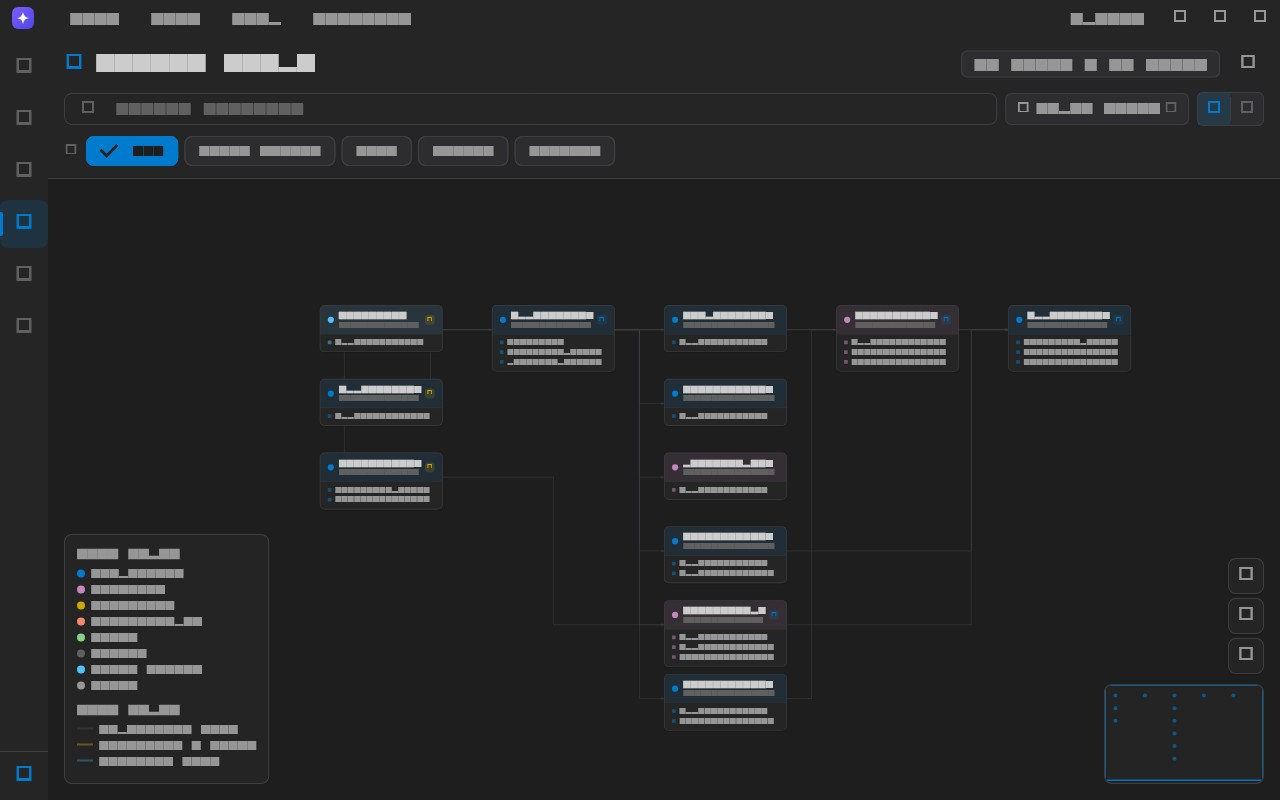
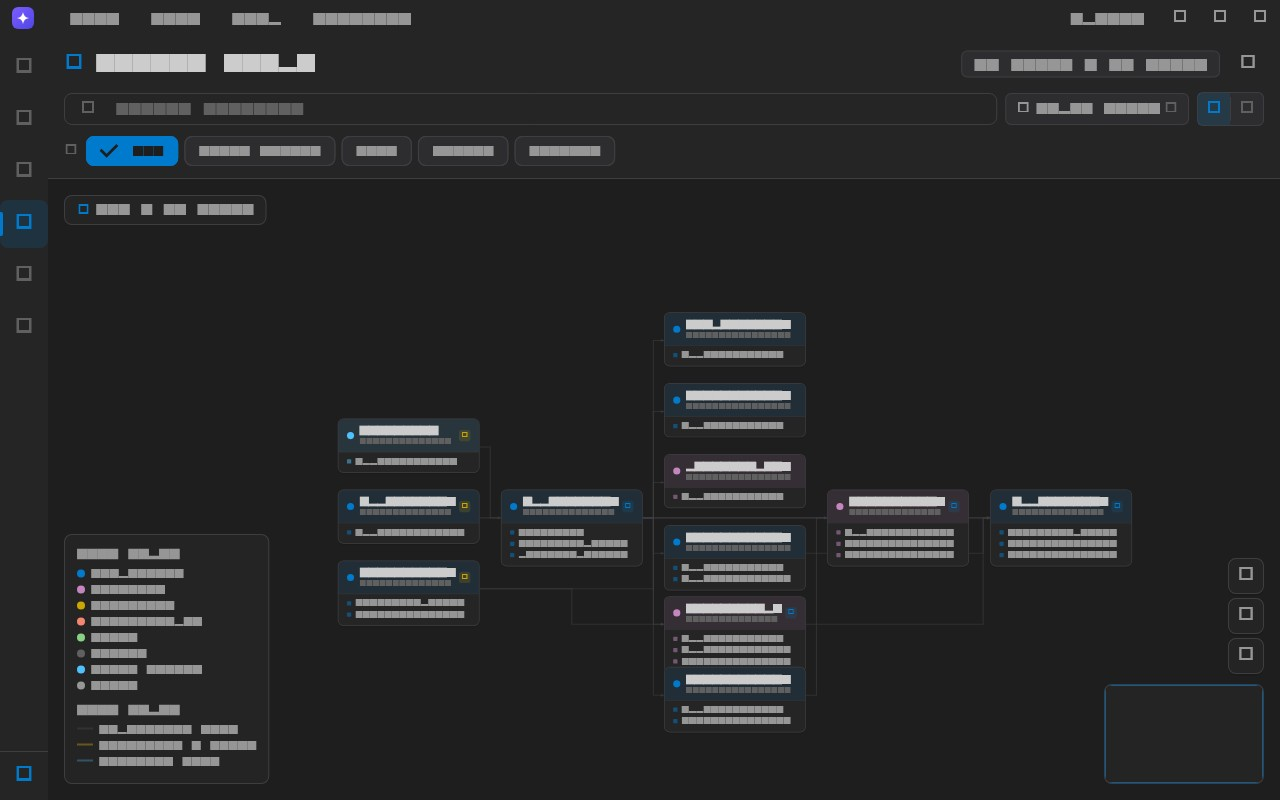
feat: adaptive viewport layout + readable 60% start zoom
- Layout now fills the viewport: gaps scale to spread nodes across the
  screen when the graph is small; only overflow outward when a codebase
  is genuinely too big
- Both layered and module-band layouts are viewport-aware
- Initial fit floors at 60% zoom (readable start); Fit-to-View button
  still shows everything
- Facet summary overlay: shows which slice is active (Entry/Hubs/Cycles/
  Modules) with live file count

diff --git a/mobile/lib/features/graph/presentation/screens/graph_screen.dart b/mobile/lib/features/graph/presentation/screens/graph_screen.dart
@@ -55,6 +55,7 @@ class _GraphScreenState extends ConsumerState<GraphScreen> {
   bool _initialFitDone = false;
   bool _isGridView = false;
   bool _isPanning = false;
+  Map<String, Rect> _moduleBands = {};
 
   @override
   void dispose() {
@@ -292,16 +293,8 @@ class _GraphScreenState extends ConsumerState<GraphScreen> {
                     final visibleEdges = edges.where((e) =>
                         visiblePaths.contains(e['from']) && visiblePaths.contains(e['to'])).toList();
 
-                    // Initialize positions: module bands when in Modules facet, else layered
-                    if (_nodePositions.isEmpty) {
-                      if (_facet == GraphFacet.modules) {
-                        _initializeModulePositions(visibleFiles, projectPath);
-                      } else {
-                        _initializePositions(visibleFiles, visibleEdges);
-                      }
-                    }
-
-                    // Calculate canvas size
+                    // Calculate canvas size (positions are initialized inside
+                    // the LayoutBuilder where the viewport is known)
                     double maxX = 0, maxY = 0;
                     for (final pos in _nodePositions.values) {
                       if (pos.dx > maxX) maxX = pos.dx;
@@ -309,14 +302,6 @@ class _GraphScreenState extends ConsumerState<GraphScreen> {
                     }
                     final canvasWidth = maxX + 300;
                     final canvasHeight = maxY + 200;
-
-                    // Auto-fit on first load
-                    if (!_initialFitDone && _nodePositions.isNotEmpty) {
-                      WidgetsBinding.instance.addPostFrameCallback((_) {
-                        _fitToView();
-                        _initialFitDone = true;
-                      });
-                    }
 
                     // Grid view
                     if (_isGridView) {
@@ -337,6 +322,22 @@ class _GraphScreenState extends ConsumerState<GraphScreen> {
                     return LayoutBuilder(
                       builder: (context, constraints) {
                         final viewportSize = Size(constraints.maxWidth, constraints.maxHeight);
+                        // Initialize positions with the real viewport so the
+                        // layout fills the screen (or overflows only if huge)
+                        if (_nodePositions.isEmpty) {
+                          if (_facet == GraphFacet.modules) {
+                            _initializeModulePositions(visibleFiles, projectPath, viewportSize);
+                          } else {
+                            _initializePositions(visibleFiles, visibleEdges, viewportSize);
+                          }
+                          // Start readable at >=60% zoom
+                          WidgetsBinding.instance.addPostFrameCallback((_) {
+                            if (mounted && !_initialFitDone) {
+                              _fitToView(initial: true);
+                              _initialFitDone = true;
+                            }
+                          });
+                        }
                         return Stack(
                       children: [
                         // Graph canvas — InteractiveViewer handles pan/zoom on background
@@ -369,7 +370,7 @@ class _GraphScreenState extends ConsumerState<GraphScreen> {
                                   Positioned.fill(
                                     child: CustomPaint(
                                       painter: _ModuleBandPainter(
-                                        bands: _moduleBands(visibleFiles, projectPath),
+                                        bands: _moduleBands,
                                       ),
                                     ),
                                   ),
@@ -490,6 +491,33 @@ class _GraphScreenState extends ConsumerState<GraphScreen> {
                             visibleFiles: visibleFiles,
                             controller: _transformController,
                             viewportSize: viewportSize,
+                          ),
+                        ),
+                        // Facet summary (top-left, shows what this slice contains)
+                        Positioned(
+                          left: 16,
+                          top: 16,
+                          child: Container(
+                            padding: const EdgeInsets.symmetric(horizontal: 12, vertical: 6),
+                            decoration: BoxDecoration(
+                              color: AppColors.surface.withValues(alpha: 0.9),
+                              borderRadius: BorderRadius.circular(8),
+                              border: Border.all(color: AppColors.border),
+                            ),
+                            child: Row(
+                              mainAxisSize: MainAxisSize.min,
+                              children: [
+                                Icon(Icons.layers_rounded, size: 13, color: AppColors.primary),
+                                const SizedBox(width: 6),
+                                Text(
+                                  '${_facetLabel(_facet)} — ${visibleFiles.length} files'
+                                  '${_facet == GraphFacet.entryPoints ? " (roots)" : ""}'
+                                  '${_facet == GraphFacet.hubs ? " (most connected)" : ""}'
+                                  '${_facet == GraphFacet.cycles ? " (tightly coupled)" : ""}',
+                                  style: const TextStyle(color: AppColors.textSecondary, fontSize: 11),
+                                ),
+                              ],
+                            ),
                           ),
                         ),
                         // Legend (bottom-left corner)
@@ -725,12 +753,10 @@ class _GraphScreenState extends ConsumerState<GraphScreen> {
     return badges;
   }
 
-  void _initializePositions(List<IndexedFile> files, List<Map<String, dynamic>> edges) {
+  void _initializePositions(List<IndexedFile> files, List<Map<String, dynamic>> edges, Size viewport) {
     // Layered (Sugiyama-style) layout — cards aligned in columns like Supabase
     const nodeWidth = 200.0;
     const nodeHeight = 80.0;
-    const gapX = 80.0;
-    const gapY = 40.0;
 
     // Build dependency adjacency: node -> set of nodes it depends on
     final byPath = {for (final f in files) f.path: f};
@@ -805,13 +831,38 @@ class _GraphScreenState extends ConsumerState<GraphScreen> {
       });
     }
 
-    // Assign grid positions: x = column per layer, y = stacked rows
+    // Assign grid positions: x = column per layer, y = stacked rows.
+    // Adaptive: fill the viewport when possible, overflow only when too big.
     final positions = <String, Offset>{};
+    final maxLayerCount = layers.length;
+    final maxNodesInLayer = layers.values.fold(0, (m, l) => l.length > m ? l.length : m);
+
+    var gapX = 80.0;
+    var gapY = 40.0;
+    if (maxLayerCount > 0 && maxNodesInLayer > 0) {
+      const pad = 80.0;
+      final usableW = viewport.width - pad * 2;
+      final usableH = viewport.height - pad * 2;
+      final targetGapX = (usableW - maxLayerCount * nodeWidth) / math.max(1, maxLayerCount - 1);
+      final targetGapY = (usableH - maxNodesInLayer * nodeHeight) / math.max(1, maxNodesInLayer - 1);
+      // Spread to fill when the graph is small; clamp to readable minimums
+      // when it is too big (then it overflows the viewport naturally).
+      gapX = targetGapX.clamp(30.0, 140.0);
+      gapY = targetGapY.clamp(20.0, 60.0);
+    }
+
+    final totalW = maxLayerCount * nodeWidth + (maxLayerCount - 1) * gapX;
+    final tallestH = maxNodesInLayer * nodeHeight + (maxNodesInLayer - 1) * gapY;
+    final startX = math.max(80.0, (viewport.width - totalW) / 2);
+    final startY = math.max(80.0, (viewport.height - tallestH) / 2);
+
     for (final entry in layers.entries) {
       final l = entry.key;
       final nodes = entry.value;
-      final x = 100.0 + l * (nodeWidth + gapX);
-      var y = 100.0;
+      final x = startX + l * (nodeWidth + gapX);
+      // Vertically center each layer's stack so columns are balanced
+      final layerH = nodes.length * nodeHeight + (nodes.length - 1) * gapY;
+      var y = startY + (tallestH - layerH) / 2;
       for (final node in nodes) {
         positions[node] = Offset(x, y);
         y += nodeHeight + gapY;
@@ -822,12 +873,13 @@ class _GraphScreenState extends ConsumerState<GraphScreen> {
   }
 
   /// Module-band layout: each module gets its own labeled column band, so the
-  /// view reads as "what each section does" — separated and titled.
+  /// view reads as "what each section does" — separated and titled. Bands
+  /// spread to fill the viewport width; when there are more bands than fit,
+  /// they overflow to the right naturally.
   Map<String, Rect> _initializeModulePositions(
-      List<IndexedFile> files, String projectPath) {
+      List<IndexedFile> files, String projectPath, Size viewport) {
     const nodeWidth = 200.0;
     const nodeHeight = 80.0;
-    const gapX = 90.0;
     const gapY = 30.0;
     const bandHeader = 46.0;
     const bandPadding = 24.0;
@@ -835,6 +887,14 @@ class _GraphScreenState extends ConsumerState<GraphScreen> {
     final groups = _groupByModule(files, projectPath);
     final positions = <String, Offset>{};
     final bands = <String, Rect>{};
+
+    // Adaptive: compute a band pitch that fills the viewport when there are
+    // few modules, clamped to a readable minimum when there are many.
+    final bandWidth = nodeWidth + bandPadding * 2 + 20;
+    final targetPitch = groups.length > 1
+        ? (viewport.width - bandPadding * 2) / groups.length
+        : bandWidth + 60;
+    final pitch = math.max(targetPitch, bandWidth).clamp(bandWidth, 320.0);
 
     var x = 60.0;
     for (final entry in groups.entries) {
@@ -848,32 +908,12 @@ class _GraphScreenState extends ConsumerState<GraphScreen> {
         y += nodeHeight + gapY;
       }
       final bandHeight = y + bandPadding - bandHeader;
-      bands[module] = Rect.fromLTWH(x - bandPadding, 0, nodeWidth + gapX, bandHeight);
-      x += nodeWidth + gapX + gapX + 20;
+      bands[module] = Rect.fromLTWH(x - bandPadding, 0, nodeWidth + bandPadding * 2 + 20, bandHeight);
+      x += pitch;
     }
 
     _nodePositions.addAll(positions);
-    return bands;
-  }
-
-  /// Compute module band rects for the given file set (for the painter).
-  Map<String, Rect> _moduleBands(List<IndexedFile> files, String projectPath) {
-    if (_facet != GraphFacet.modules) return {};
-    const nodeWidth = 200.0;
-    const gapX = 90.0;
-    const bandHeader = 46.0;
-    const bandPadding = 24.0;
-
-    final groups = _groupByModule(files, projectPath);
-    final bands = <String, Rect>{};
-    var x = 60.0;
-    for (final entry in groups.entries) {
-      final module = entry.key;
-      final nodes = entry.value;
-      final height = bandHeader + bandPadding * 2 + nodes.length * (80.0 + 30.0);
-      bands[module] = Rect.fromLTWH(x - bandPadding, 0, nodeWidth + gapX, height);
-      x += nodeWidth + gapX + gapX + 20;
-    }
+    _moduleBands = bands;
     return bands;
   }
 
@@ -920,7 +960,7 @@ class _GraphScreenState extends ConsumerState<GraphScreen> {
       ..scale(fitScale);
   }
 
-  void _fitToView() {
+  void _fitToView({bool initial = false}) {
     if (_nodePositions.isEmpty) return;
     double minX = double.infinity, minY = double.infinity;
     double maxX = 0, maxY = 0;
@@ -946,7 +986,18 @@ class _GraphScreenState extends ConsumerState<GraphScreen> {
     // Calculate scale to fit
     final scaleX = (viewportWidth - padding * 2) / contentWidth;
     final scaleY = (viewportHeight - padding * 2) / contentHeight;
-    final fitScale = math.min(scaleX, scaleY).clamp(0.1, 2.0);
+    var fitScale = math.min(scaleX, scaleY);
+
+    if (initial) {
+      // Start readable: fit the screen when the graph is small, but never
+      // shrink below 60% for big graphs — the graph then overflows the
+      // viewport naturally and the user pans/minimap explores it. Never
+      // blow up small graphs beyond 100%.
+      fitScale = fitScale.clamp(0.6, 1.0);
+    } else {
+      // Fit-to-view button: always show everything.
+      fitScale = fitScale.clamp(0.1, 2.0);
+    }
 
     // Center the content
     final centerX = (minX + maxX) / 2;
@@ -963,6 +1014,7 @@ class _GraphScreenState extends ConsumerState<GraphScreen> {
     _transformController.value = Matrix4.identity();
     setState(() {
       _nodePositions.clear();
+      _moduleBands = {};
       _selectedNode = null;
       _hoveredNode = null;
       _initialFitDone = false;
